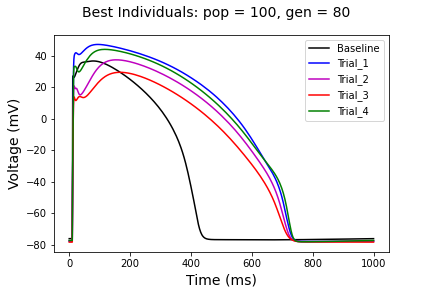
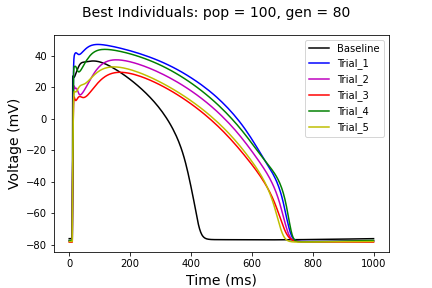
plot_upload

diff --git a/plot_GA.py b/plot_GA.py
@@ -36,6 +36,12 @@ ind_4 = ind_4.to_dict('index')
 t4, v4 = plot_GA(ind_4)
 plt.plot(t4, v4, '-g', label = 'Trial_4')
 
+ind_5= pd.read_excel('Best_ind_5.xlsx')
+ind_5 = ind_5.to_dict('index')
+
+t5, v5 = plot_GA(ind_5)
+plt.plot(t5, v5, '-y', label = 'Trial_5')
+
 plt.legend()
 plt.ylabel('Voltage (mV)', fontsize=14)
 plt.xlabel('Time (ms)', fontsize=14)
